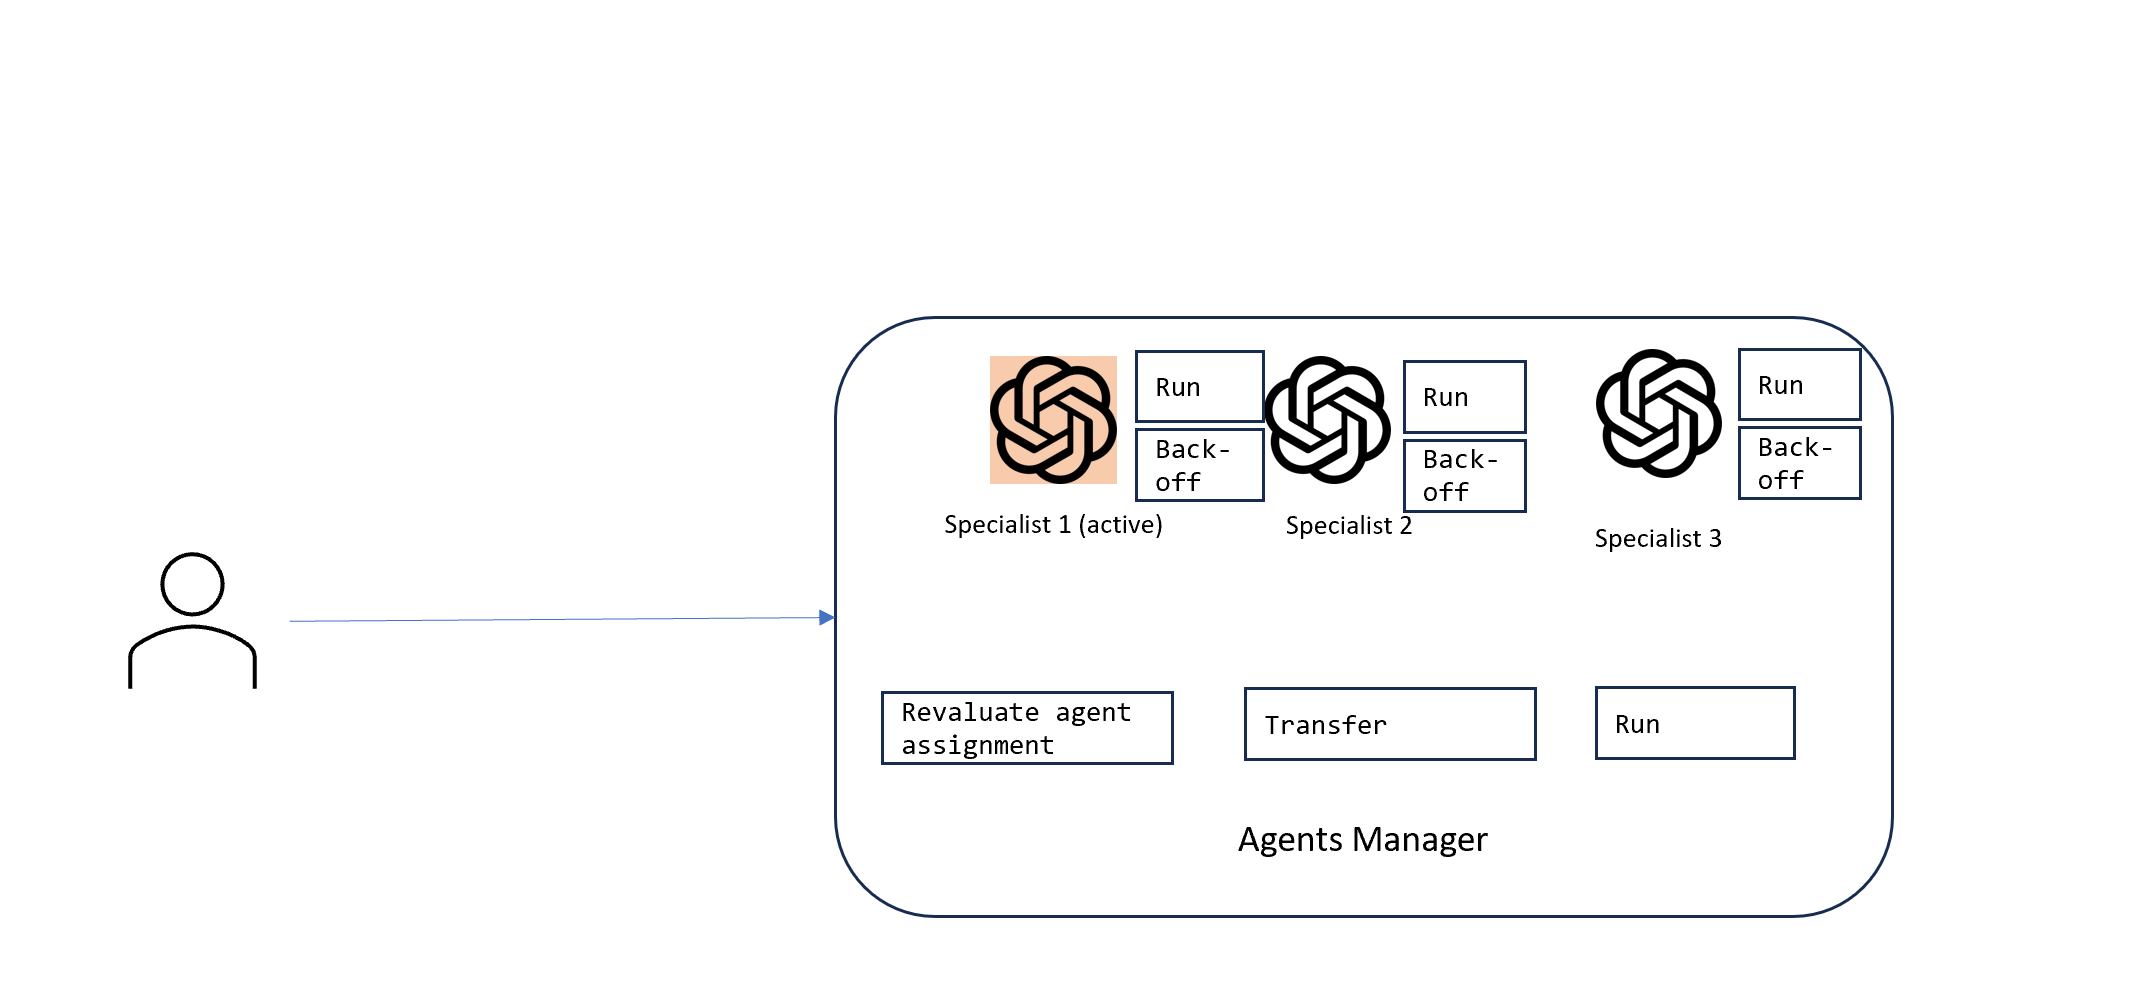
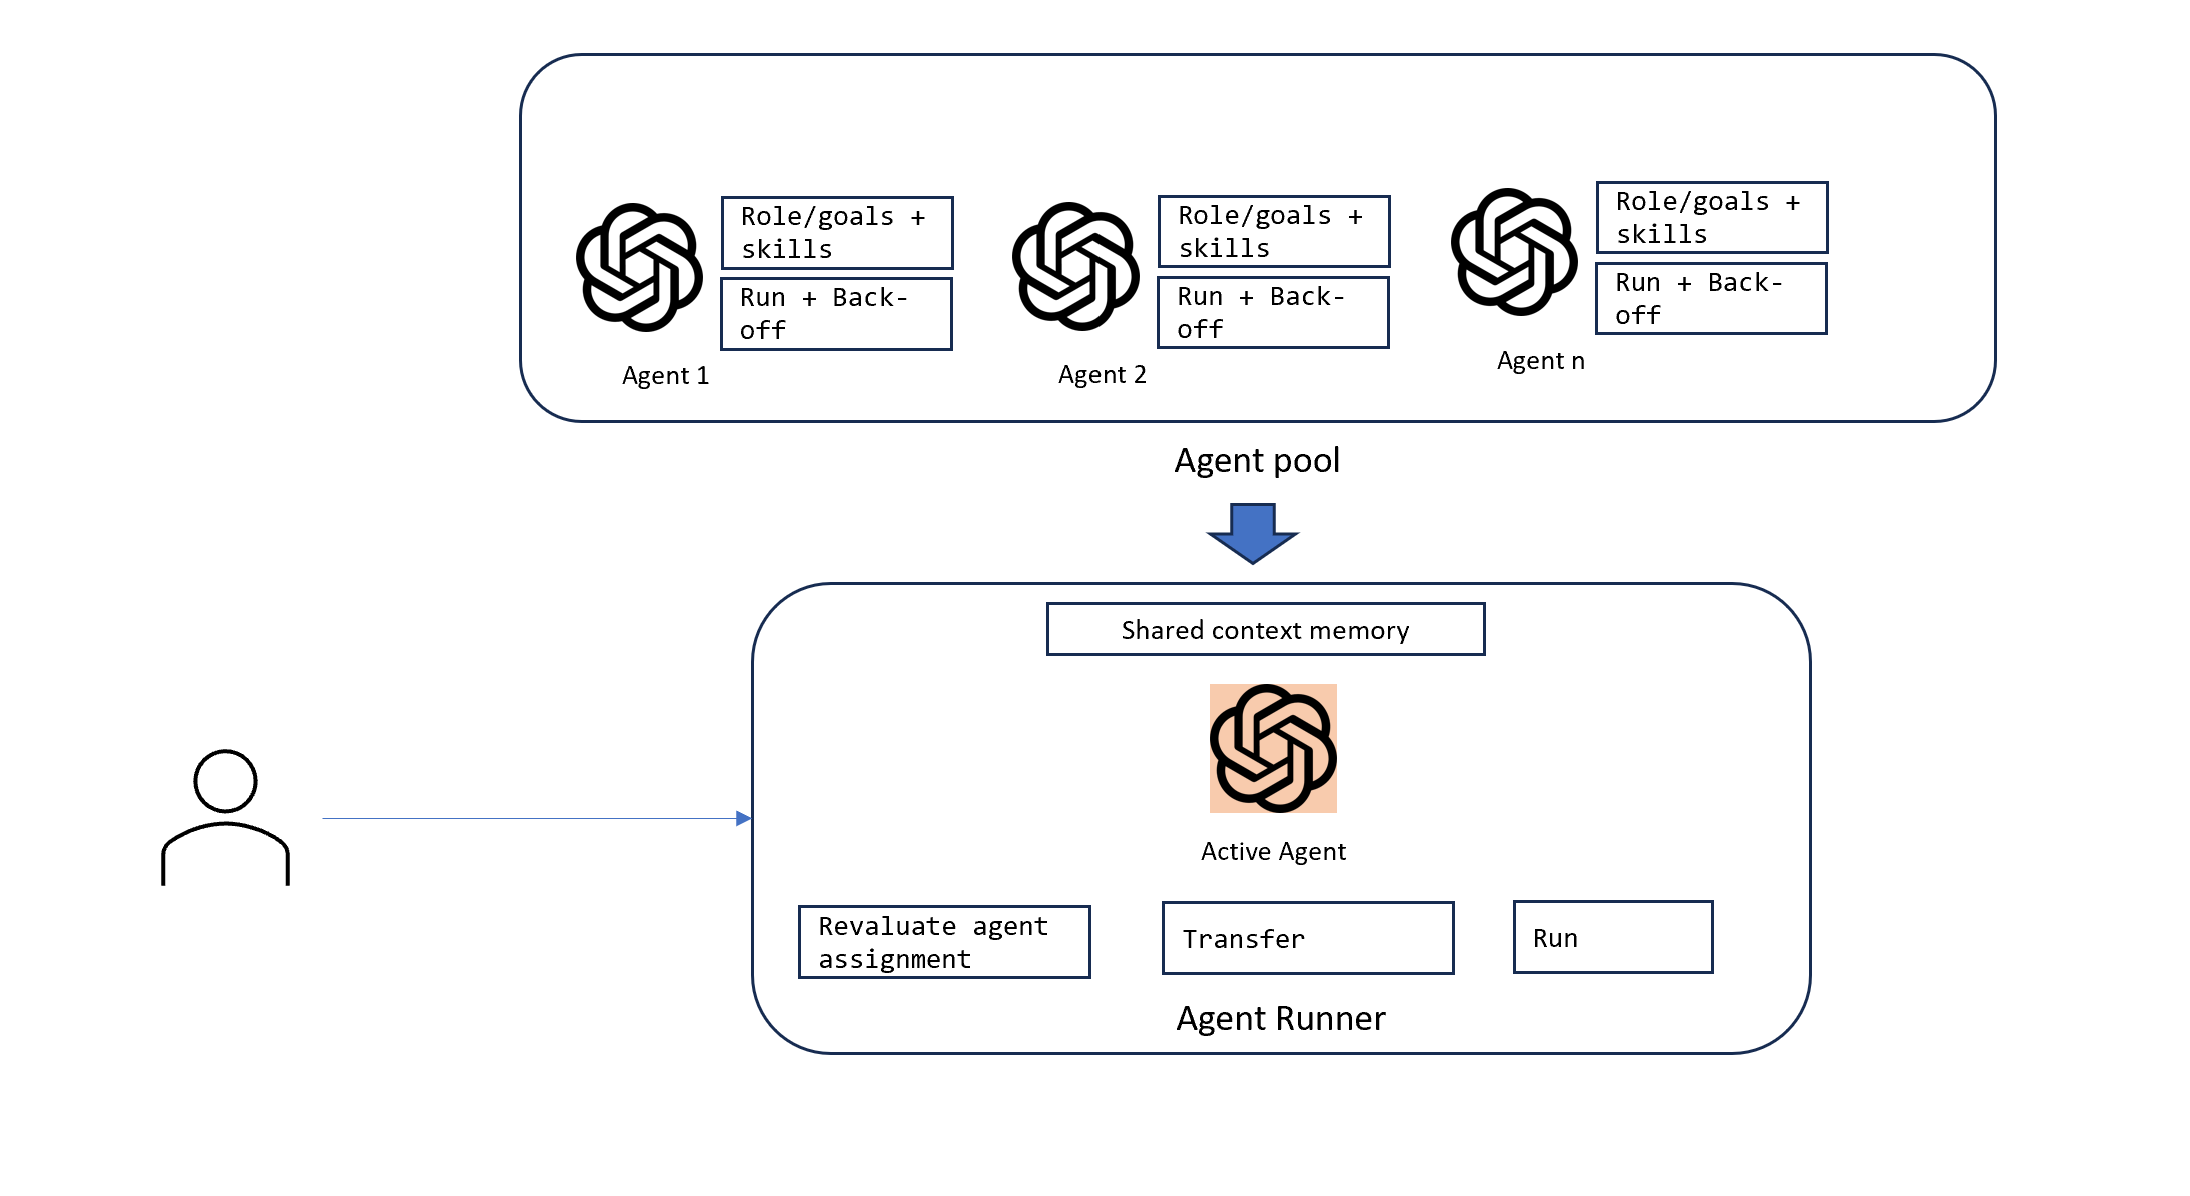
update readme

diff --git a/scenarios/incubations/copilot/multi_agent_copilot.py b/scenarios/incubations/copilot/multi_agent_copilot.py
@@ -21,25 +21,31 @@ MAX_HIST= 5
 with st.sidebar:
     st.title('Copilot')
     st.markdown('''
-    This is a demo of Multi-Agent Copilot Concept. The Copilot helps employees answer questions and update information.
-    There are 3 agents in the Copilot: HR, IT and Generalist. Each agent has a different persona and skillset.
-    Depending on the needs of the user, the Copilot will assign the right agent to answer the question.
-    1. Generalist copilot helps answer general questions such as company policies, benefits, etc.
+This is a demo of Multi-Agent Copilot concept. The Copilot helps employees answer questions and update information.
+There are 3 agents in the Copilot: HR, IT and Generalist. Each agent has a different persona and skillset.
+Depending on the needs of the user, the Copilot will assign the right agent to answer the question.
 
-    2. For HR Copilot, the agent will answer questions about HR and Payroll and update personal information.
+1. Generalist copilot help validate the user and answer general questions that are not related to HR and IT.
+   - Use ids such as 1234 or 5678 to test the demo. 
+   - When the conversation enters any of the HR or IT area, generalist agent will request to transfer to the right specialist agent.
 
-        - When will I receive W2 form?
-        - Can you explain what are deducted from my paycheck?    
-        
-        These questions are answered by the Copilot by searching a knowledge base and providing the answer.
-                    
-        HR Copilot also can help update information. 
-        - For address update, the Copilot will update the information in the system. 
-                    For example: I moved to 123 Main St, San Jose, CA 95112, please update my address
-        - For other information update requests, the Copilot will log a ticket to the HR team to update the information.
-                    For example: I got married, please update my marital status to married.
-                
-    3. For IT copilot, it helps answer questions about IT. It's a simple agent which directly mimic ChatGPT
+2. For HR Copilot, the agent will answer questions about HR and Payroll and update personal information.
+
+    Example questions to ask:
+
+    - When will I receive W2 form?
+    - What are deducted from my paycheck?
+
+    These questions are answered by the Copilot by searching a knowledge base and providing the answer.
+
+    Copilot also can help update information.
+
+    - For address update, the Copilot will update the information in the system. For example: I moved to 123 Main St, San Jose, CA 95112, please update my address
+    - For other information update requests, the Copilot will log a ticket to the HR team to update the information, for example: I got married, please update my marital status to married.
+
+
+3. For IT copilot, it helps answer questions about IT. So ask question such as how to do I reset my password? or I need a new laptop.
+
                 
     ''')
     add_vertical_space(5)

diff --git a/scenarios/incubations/copilot/utils.py b/scenarios/incubations/copilot/utils.py
@@ -264,13 +264,13 @@ class Smart_Agent(Agent):
                     
                     # verify function exists
                     if function_name not in self.functions_list:
-                        return "Function " + function_name + " does not exist"
+                        raise Exception("Function " + function_name + " does not exist")
                     function_to_call = self.functions_list[function_name]  
                     
                     # verify function has correct number of arguments
                     function_args = json.loads(response_message["function_call"]["arguments"])
                     if check_args(function_to_call, function_args) is False:
-                        return "Invalid number of arguments for function: " + function_name
+                        raise Exception("Invalid number of arguments for function: " + function_name)
                     function_response = function_to_call(**function_args)
                     print("Output of function call:")
                     print(function_response)

diff --git a/scenarios/incubations/copilot/multi_agent_utils.py b/scenarios/incubations/copilot/multi_agent_utils.py
@@ -30,8 +30,8 @@ VALIDATE_IDENTIFY_FUNCTION_NAME = "validate_identity" #default function name for
 GENERALIST_PERSONA = """
 You are Jenny, a helpful general assistant that can answer general questions about everything except HR and Payroll and IT.
 You start the conversation by validating the identity of the employee. Do not proceed until you have validated the identity of the employee.
-If the employee is asking for information in the HR & Payroll, offer to route the call to HR/Payroll specialist then transfer the call.
-If the employee is asking for information in the IT, offer to route the call to IT specialist then transfer the call.
+If the employee is asking for information in the HR & Payroll, inform that you will route the call to the right specialist.
+If the employee is asking for information in the IT, inform that you will route the call to the right specialist.
 """
 IT_PERSONA = """
 You are Paul, a helpful IT specialist that help employees about everything in IT.

diff --git a/scenarios/incubations/copilot/README.md b/scenarios/incubations/copilot/README.md
@@ -32,9 +32,10 @@ Copilot will first validate the identity of the employee before answering any qu
 
 Example questions to ask:
 
-- When do I receive W2 form?
+- When will I receive W2 form?
 - What are deducted from my paycheck?
-- These questions are answered by the Copilot by searching a knowledge base and providing the answer.
+
+These questions are answered by the Copilot by searching a knowledge base and providing the answer.
 
 Copilot also can help update information.
 
@@ -58,33 +59,51 @@ Smart Agent:At the heart of the solution is the python object Smart_Agent.  The 
 ### 4. Multi-Agent Copilot
 <img width="1159" alt="image" src="../../../documents/media/multi-agent_model.png">
 
-When the scope for automation span across multiple functional domains, just like human, agent may perform better when it specializes in a single area.
-In terms of implementation, a specialized agent's instruction and prompt can be limited into a narrow domain so it may perform more reliably.
-On the other hand, there needs to be a coordination mechanism to move the session across participating agents smoothly and to enable hand-over of information from one agent to next. In addition, each participating agent needs to be intructed as how to hand over when it's supposed to.
 
+When scope for automation spans across multiple functional domains, like human, agent may perform better when it can specialize in a single area.
+
+So instead of stuffing a single agent with multiple capabilities, we can employ multiple agents model, each specializing in a single domain. These agents are managed and coordinated by a manager agent (agent runner).
+This is called multi-agent copilot model.
+
+The agent runner is responsible to promote the right agent from the agent pool to be the active agent to interact with user.
+It also is responsible to transfer relavant contextfrom agent to agent to ensure continuity.
+In this model, the agent runner relies on the specialist agent's cue to back-off from conversation to start the transfer.
+Each specialist agent has to implement a skill to send a notification (back-off method) when it thinks its skillset cannot handle the user's request.
+
+On the other hand, the decision on exactly which agent should be selected to take over the conversation is still with agent runner.
+When receiving such request, agent runner will revaluate the from the input by the requesting agent to decide on which agent to select for the job. This skill also relies on a LLM. 
+
+Agent runner runs each specialist agent's run method.
+
+There can be some persistent context that should be available across agent's sessions. This is implemented as the persistent memory at agent runner.
+
+Each specialist agent depending on the requirement for skill, can be powered by a gpt-35-turbo or gpt-4.
+
+Multi-agent solution has same application platform (streamlit) as the single HR Copilot. 
 #### Function flow
 
 This is a demo of Multi-Agent Copilot concept. The Copilot helps employees answer questions and update information.
 There are 3 agents in the Copilot: HR, IT and Generalist. Each agent has a different persona and skillset.
 Depending on the needs of the user, the Copilot will assign the right agent to answer the question.
-1. For HR Copilot, the agent will answer questions about HR and Payroll and update personal information.
 
-Copilot will first validate the identity of the employee before answering any questions or updating any information.
-Use ids such as 1234 or 5678 to test the demo.
+1. Generalist copilot help validate the user and answer general questions that are not related to HR and IT. Use ids such as 1234 or 5678 to test the demo. When the conversation enters any of the HR or IT area, generalist agent will request to transfer to the right specialist agent.
+
+2. For HR Copilot, the agent will answer questions about HR and Payroll and update personal information.
 
 Example questions to ask:
-- When do I receive W2 form?
-- What are deducted from my paycheck?    
-When do I receive W2 form?When do I receive W2 form?
-            
-These questions are answered by the Copilot by searching a knowledge base and providing the answer.
-            
-Copilot also can help update information. 
-- For address update, the Copilot will update the information in the system. 
-- For other information update requests, the Copilot will log a ticket to the HR team to update the information.
-2. For IT copilot, it helps answer questions about IT
-3. Generalist copilot helps answer general questions such as company policies, benefits, etc.When do I receive W2 form?
 
+- When will I receive W2 form?
+- What are deducted from my paycheck?
+
+These questions are answered by the Copilot by searching a knowledge base and providing the answer.
+
+Copilot also can help update information.
+
+- For address update, the Copilot will update the information in the system.
+- For other information update requests, the Copilot will log a ticket to the HR team to update the information.
+
+
+2. For IT copilot, it helps answer questions about IT
 
 # Installation 
 ## Open AI setup
